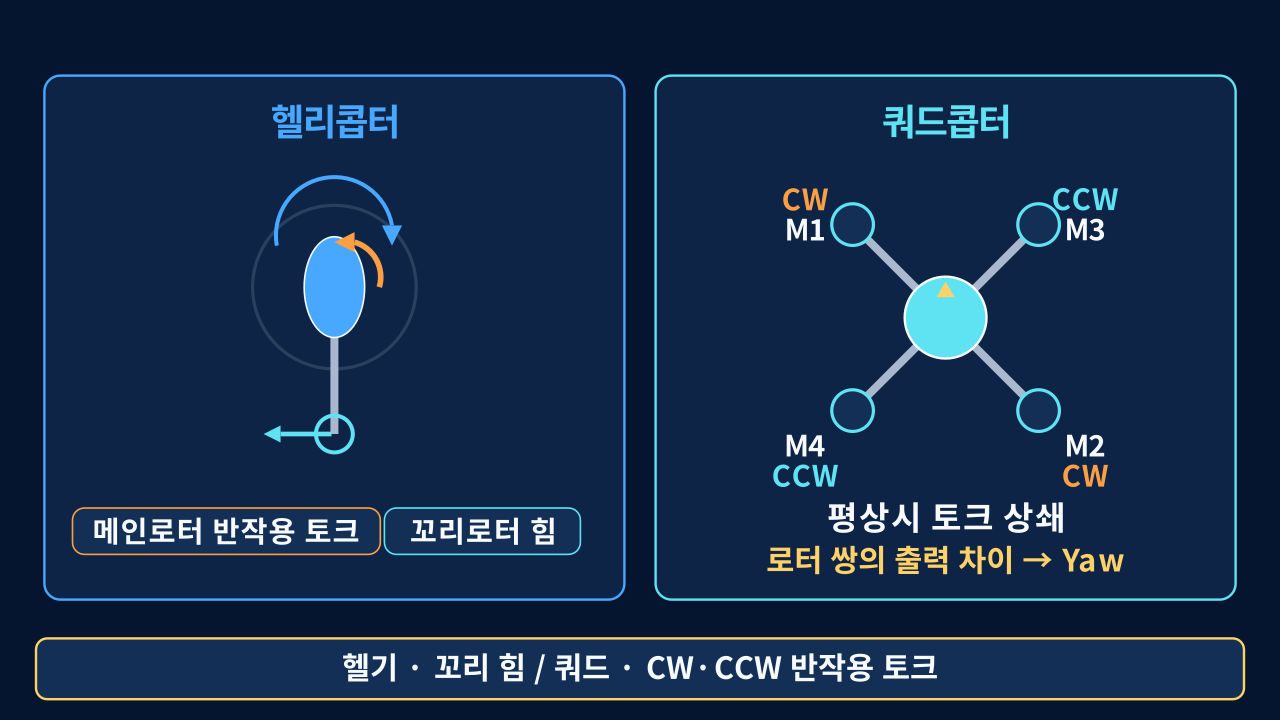
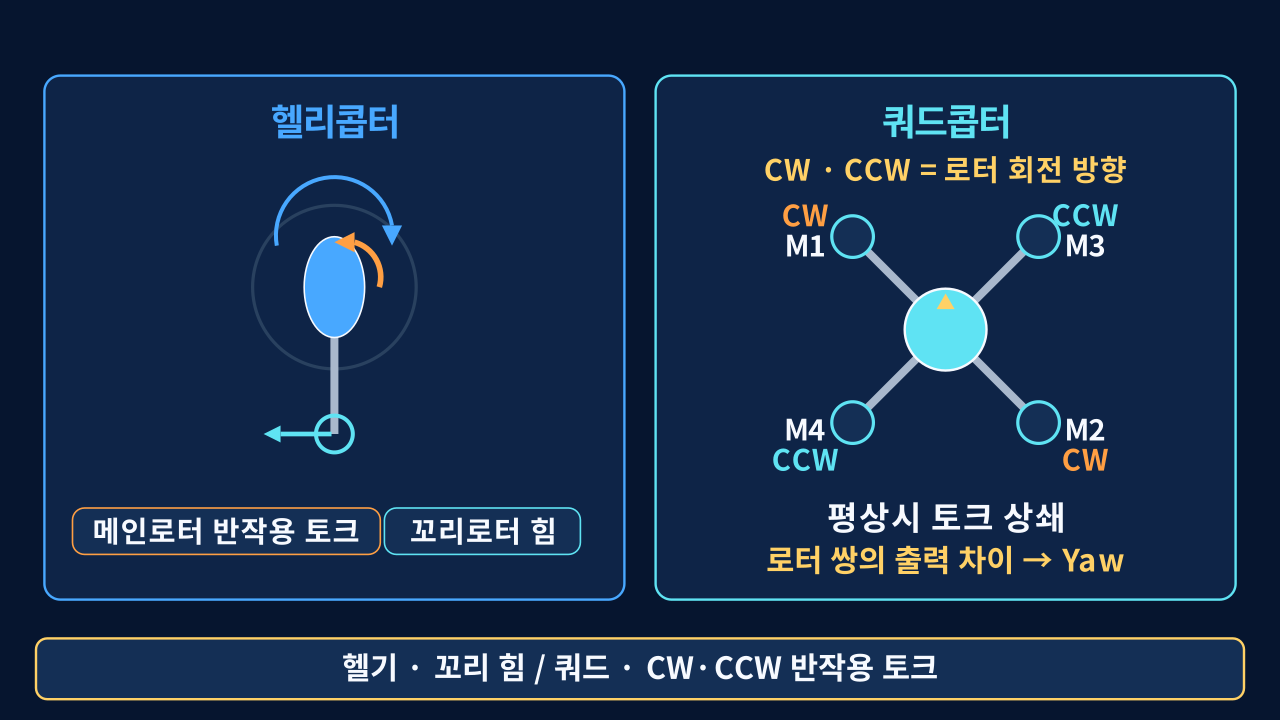
fix: correct static drone diagram semantics

Changed region(s): [[0.5938, 0.2139, 0.875, 0.6722]]

diff --git a/tools/test_presentation_visualizations.py b/tools/test_presentation_visualizations.py
@@ -123,6 +123,7 @@ STATIC_REQUIRED_TEXT = {
         "꼬리로터힘",
         "CW",
         "CCW",
+        "CW·CCW=로터회전방향",
         "평상시토크상쇄",
     },
     "SwarmSystemStatic": {
@@ -373,6 +374,26 @@ class PresentationVisualizationLayoutTests(unittest.TestCase):
         return scene
 
     @staticmethod
+    def _rendered_static_scene(scene_name: str):
+        from manim import tempconfig
+
+        module = load_static_module()
+        if module is None:
+            raise AssertionError("static diagram visualization module is missing")
+        with tempconfig(
+            {
+                "dry_run": True,
+                "disable_caching": True,
+                "verbosity": "ERROR",
+                "frame_rate": 1,
+                "progress_bar": "none",
+            }
+        ):
+            scene = getattr(module, scene_name)()
+            scene.render()
+        return scene
+
+    @staticmethod
     def _mobjects(scene):
         def descendants(mobject):
             yield mobject
@@ -458,6 +479,176 @@ class PresentationVisualizationLayoutTests(unittest.TestCase):
         comparison = self._text(scene, "움직임은다르지만센서값은같다")
 
         self.assertGreater(comparison.get_bottom()[1], 2.05)
+
+    def test_static_force_vectors_share_origin_and_encode_physical_relations(self) -> None:
+        import math
+
+        scene = self._rendered_static_scene("QuadcopterForceMotionStatic")
+        arrows = [
+            item for item in self._mobjects(scene) if type(item).__name__ == "Arrow"
+        ]
+        weight_arrows = [
+            item for item in arrows if str(item.get_color()) == "#FFD166"
+        ]
+        self.assertEqual(len(weight_arrows), 4)
+
+        state_colors = {
+            "상승": "#55D68B",
+            "호버링": "#5FE3F3",
+            "하강": "#FF9F43",
+            "수평이동": "#48A8FF",
+        }
+        vectors = {}
+        for state, color in state_colors.items():
+            self._text(scene, state)
+            thrust = next(item for item in arrows if str(item.get_color()) == color)
+            weight = min(
+                weight_arrows,
+                key=lambda item: math.dist(
+                    item.get_center()[:2], thrust.get_center()[:2]
+                ),
+            )
+            for axis in (0, 1):
+                self.assertAlmostEqual(
+                    thrust.get_start()[axis],
+                    weight.get_start()[axis],
+                    places=5,
+                    msg=f"{state}: thrust and weight need a common origin",
+                )
+            thrust_vector = thrust.get_end() - thrust.get_start()
+            weight_vector = weight.get_end() - weight.get_start()
+            self.assertAlmostEqual(float(weight_vector[0]), 0.0, places=5)
+            self.assertLess(float(weight_vector[1]), 0.0)
+            vectors[state] = (
+                thrust_vector,
+                math.hypot(float(thrust_vector[0]), float(thrust_vector[1])),
+                math.hypot(float(weight_vector[0]), float(weight_vector[1])),
+            )
+
+        self.assertGreater(vectors["상승"][1], vectors["상승"][2])
+        self.assertAlmostEqual(vectors["호버링"][1], vectors["호버링"][2], places=5)
+        self.assertGreater(vectors["하강"][1], 0.0)
+        self.assertLess(vectors["하강"][1], vectors["하강"][2])
+        horizontal_vector, _, horizontal_weight = vectors["수평이동"]
+        self.assertGreater(float(horizontal_vector[0]), 0.0)
+        self.assertAlmostEqual(
+            float(horizontal_vector[1]), horizontal_weight, places=5
+        )
+
+    def test_static_rotor_mapping_and_helicopter_torques_have_correct_signs(self) -> None:
+        import math
+
+        scene = self._rendered_static_scene("HelicopterQuadcopterTorqueStatic")
+        self._text(scene, "CW·CCW=로터회전방향")
+        rendered_text = [
+            item
+            for item in self._mobjects(scene)
+            if getattr(item, "text", None) is not None
+        ]
+        rotation_labels = [
+            item for item in rendered_text if item.text in {"CW", "CCW"}
+        ]
+        expected_mapping = {
+            "M1": (-1, 1, "CW"),
+            "M3": (1, 1, "CCW"),
+            "M4": (-1, -1, "CCW"),
+            "M2": (1, -1, "CW"),
+        }
+        motor_labels = {
+            name: self._text(scene, name) for name in expected_mapping
+        }
+        quad_center_x = (
+            sum(label.get_center()[0] for label in motor_labels.values()) / 4
+        )
+        quad_center_y = (
+            sum(label.get_center()[1] for label in motor_labels.values()) / 4
+        )
+        for name, (x_sign, y_sign, rotation) in expected_mapping.items():
+            motor = motor_labels[name]
+            self.assertGreater((motor.get_center()[0] - quad_center_x) * x_sign, 0)
+            self.assertGreater((motor.get_center()[1] - quad_center_y) * y_sign, 0)
+            nearest_rotation = min(
+                rotation_labels,
+                key=lambda item: math.dist(
+                    item.get_center()[:2], motor.get_center()[:2]
+                ),
+            )
+            self.assertEqual(nearest_rotation.text, rotation)
+
+        rotor_disk = max(
+            (
+                item
+                for item in self._mobjects(scene)
+                if type(item).__name__ == "Circle" and item.get_center()[0] < 0
+            ),
+            key=lambda item: item.width,
+        )
+        reaction = next(
+            item
+            for item in self._mobjects(scene)
+            if type(item).__name__ == "CurvedArrow"
+            and str(item.get_color()) == "#FF9F43"
+            and item.get_center()[0] < 0
+        )
+        tail_force = next(
+            item
+            for item in self._mobjects(scene)
+            if type(item).__name__ == "Arrow"
+            and str(item.get_color()) == "#5FE3F3"
+            and item.get_center()[0] < 0
+        )
+
+        def moment_sign(arrow) -> float:
+            radius = arrow.get_start() - rotor_disk.get_center()
+            force = arrow.get_end() - arrow.get_start()
+            return float(radius[0] * force[1] - radius[1] * force[0])
+
+        reaction_moment = moment_sign(reaction)
+        tail_force_moment = moment_sign(tail_force)
+        self.assertNotEqual(reaction_moment, 0.0)
+        self.assertNotEqual(tail_force_moment, 0.0)
+        self.assertLess(reaction_moment * tail_force_moment, 0.0)
+
+    def test_swarm_future_uses_caution_while_danger_stays_red(self) -> None:
+        scene = self._rendered_static_scene("SwarmSystemStatic")
+        boundary = self._text(scene, "후속목표·미구현·미검증")
+        boundary_glyph_colors = {
+            str(glyph.get_fill_color()) for glyph in boundary.submobjects
+        }
+        self.assertEqual(boundary_glyph_colors, {"#FFD166"})
+
+        takeaway_box = next(
+            item
+            for item in self._mobjects(scene)
+            if type(item).__name__ == "RoundedRectangle"
+            and item.width > 14.0
+            and item.get_center()[1] < -3.0
+        )
+        self.assertEqual(str(takeaway_box.get_stroke_color()), "#FFD166")
+
+        danger_scene = self._rendered_static_scene("FailsafeTimelineStatic")
+        red_state_boxes = [
+            item
+            for item in self._mobjects(danger_scene)
+            if type(item).__name__ == "RoundedRectangle"
+            and str(item.get_stroke_color()) == "#FF6474"
+            and item.height > 0.9
+        ]
+        for dangerous_state in ("치명적고장", "즉시모터정지"):
+            danger_label = self._text(danger_scene, dangerous_state)
+            nearest_red_box = min(
+                red_state_boxes,
+                key=lambda item: sum(
+                    (item.get_center()[axis] - danger_label.get_center()[axis]) ** 2
+                    for axis in (0, 1)
+                ),
+            )
+            self.assertAlmostEqual(
+                nearest_red_box.get_center()[0], danger_label.get_center()[0], places=5
+            )
+            self.assertAlmostEqual(
+                nearest_red_box.get_center()[1], danger_label.get_center()[1], places=5
+            )
 
     def test_significance_scenes_render(self) -> None:
         from manim import tempconfig

diff --git a/docs/presentations/ai-startup-camp-drone/visualizations/static_diagram_visualizations.py b/docs/presentations/ai-startup-camp-drone/visualizations/static_diagram_visualizations.py
@@ -8,6 +8,8 @@ or takeaway line.
 
 from __future__ import annotations
 
+from math import cos
+
 from manim import *
 
 from audience_visualizations import (
@@ -375,18 +377,20 @@ def force_tile(
     drone = x_quadcopter_icon(0.42).rotate(tilt).move_to(
         panel.get_center() + LEFT * 2.25 + DOWN * 0.18
     )
+    force_origin = drone.get_center()
+    weight_vector = DOWN
     gravity = Arrow(
-        drone.get_center() + DOWN * 0.18,
-        drone.get_center() + DOWN * 1.18,
-        buff=0.28,
+        force_origin,
+        force_origin + weight_vector,
+        buff=0,
         color=YELLOW,
         stroke_width=6,
     )
     direction = rotate_vector(UP, tilt)
     thrust = Arrow(
-        drone.get_center() + direction * 0.15,
-        drone.get_center() + direction * thrust_length,
-        buff=0.28,
+        force_origin,
+        force_origin + direction * thrust_length,
+        buff=0,
         color=color,
         stroke_width=7,
     )
@@ -425,7 +429,7 @@ class QuadcopterForceMotionStatic(StaticDiagramScene):
                 "수평 성분 발생",
                 RIGHT * 3.82 + DOWN * 1.58,
                 BLUE,
-                1.15,
+                1 / cos(18 * DEGREES),
                 tilt=-18 * DEGREES,
             ),
         )
@@ -490,16 +494,19 @@ class HelicopterQuadcopterTorqueStatic(StaticDiagramScene):
         )
 
         quad = x_quadcopter_icon(0.93, CYAN).move_to(
-            right_panel.get_center() + UP * 0.25
+            right_panel.get_center() + UP * 0.1
         )
         quad_name = text("쿼드콥터", 30, CYAN, "BOLD").move_to(
             right_panel.get_center() + UP * 2.7
         )
+        rotation_legend = text(
+            "CW · CCW = 로터 회전 방향", 24, YELLOW, "BOLD"
+        ).move_to(right_panel.get_center() + UP * 2.1)
         offsets = (
-            (-1.75, 1.35, "M1", "CW", ORANGE),
-            (1.75, 1.35, "M3", "CCW", CYAN),
-            (-1.75, -1.35, "M4", "CCW", CYAN),
-            (1.75, -1.35, "M2", "CW", ORANGE),
+            (-1.75, 1.15, "M1", "CW", ORANGE),
+            (1.75, 1.15, "M3", "CCW", CYAN),
+            (-1.75, -1.15, "M4", "CCW", CYAN),
+            (1.75, -1.15, "M2", "CW", ORANGE),
         )
         rotor_labels = VGroup()
         for x, y, motor_name, rotation, color in offsets:
@@ -526,6 +533,7 @@ class HelicopterQuadcopterTorqueStatic(StaticDiagramScene):
             tail_label,
             quad,
             quad_name,
+            rotation_legend,
             rotor_labels,
             cancel,
             yaw,
@@ -535,7 +543,7 @@ class HelicopterQuadcopterTorqueStatic(StaticDiagramScene):
 
 class SwarmSystemStatic(StaticDiagramScene):
     def construct(self) -> None:
-        status = boundary_badge("후속 목표 · 미구현 · 미검증", RED)
+        status = boundary_badge("후속 목표 · 미구현 · 미검증", YELLOW)
         status.move_to(RIGHT * 4.28 + UP * 3.75)
         left_panel = card(4.2, 6.2, BLUE).move_to(LEFT * 5.55 + UP * 0.16)
         right_panel = card(10.15, 6.2, CYAN).move_to(RIGHT * 2.3 + UP * 0.16)
@@ -584,7 +592,7 @@ class SwarmSystemStatic(StaticDiagramScene):
         requirements = VGroup(requirement_top, requirement_bottom).arrange(
             DOWN, buff=0.18
         ).move_to(right_panel.get_center() + DOWN * 2.08)
-        note = takeaway("단일 기체 검증 + 좌표·통신·회피·집단 안전", RED)
+        note = takeaway("단일 기체 검증 + 좌표·통신·회피·집단 안전", YELLOW)
         self.add(
             status,
             left_panel,
